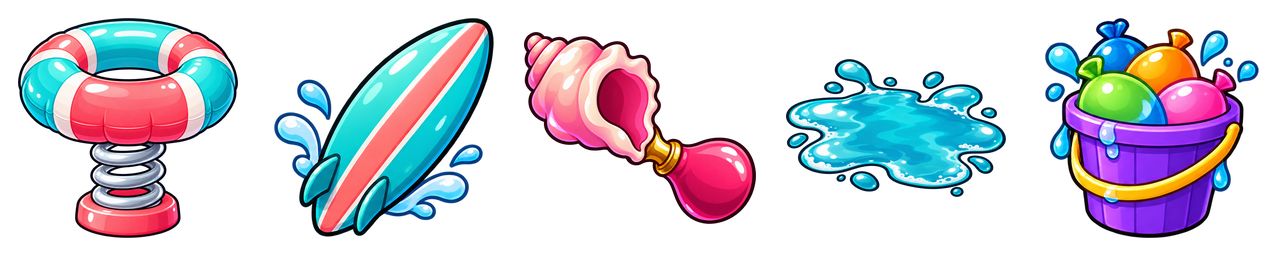
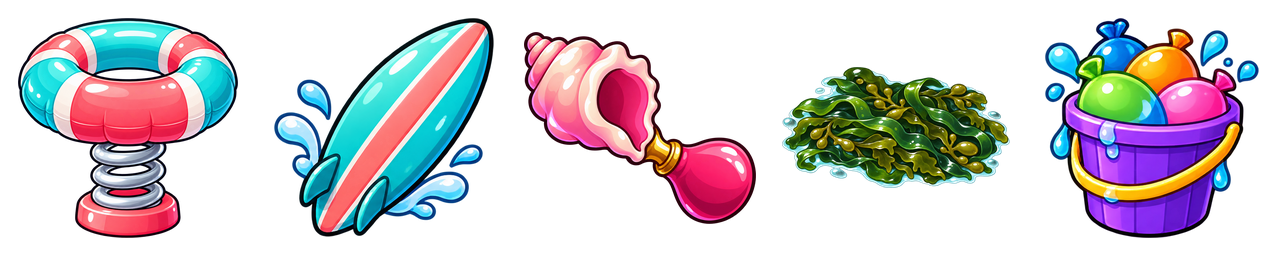
Deliver SW1 slippery Beach seaweed patch; 36 unit and 36 silent browser checks passed

Changed region(s): [[0.5938, 0.2188, 0.8125, 0.7812]]

diff --git a/americangirldollrace/tracks.js b/americangirldollrace/tracks.js
@@ -175,6 +175,7 @@ window.TRACK_THEMES = {
   beach: {
     noPowerups: ["emp", "horse"], // the surfboard stands in for both
     monster: "sandtroll",
+    powerupArtVersion: "20261023-seaweed1",
     name: "Beach", music: "assets/music/Ride the Beach Tide.mp3", dirtTop: 514, loopMode: "repeat", art: ["background", "card", "powerups", "projectile", "hurdle", "wave"],
     labels: { jump: "POOL SPRING", boost: "SURFBOARD", emp: "CONCH SHELL", oil: "SEAWEED", snowball: "WATER BALLOONS" },
     projectileLanding: "water",

diff --git a/americangirldollrace/index.html b/americangirldollrace/index.html
@@ -327,7 +327,7 @@
     </main>
     <div id="barsHint" hidden><span class="bars-arrow" aria-hidden="true">↑</span> Swipe up to hide Safari’s bars · or Share → Add to Home Screen</div>
     <script src="config.js?v=81dc0cfb"></script>
-    <script src="tracks.js?v=0a54d3c5"></script>
+    <script src="tracks.js?v=70594b77"></script>
     <script src="doll-art.js?v=05306016"></script>
     <script src="assets/audio/manifest.js?v=8761a783"></script>
     <script src="audio.js?v=baeb1965"></script>

diff --git a/americangirldollrace/tools/tracks/beach-seaweed/build.py b/americangirldollrace/tools/tracks/beach-seaweed/build.py
@@ -1,0 +1,16 @@
+"""Replace only the Beach oil cell with reviewed seaweed art."""
+from pathlib import Path
+from PIL import Image
+import importlib.util,json,hashlib
+HERE=Path(__file__).resolve().parent;GAME=HERE.parents[2]
+spec=importlib.util.spec_from_file_location('packing',GAME/'tools/tracks/build.py');p=importlib.util.module_from_spec(spec);spec.loader.exec_module(p)
+art=p.icon(p.clean(Image.open(HERE/'source.webp')),(256,256),(228,150))
+before=Image.open(HERE/'before.webp').convert('RGBA');sheet=before.copy();sheet.paste(art,(768,0))
+for n in [0,1,2,4]:
+ box=(n*256,0,(n+1)*256,256);assert before.crop(box).tobytes()==sheet.crop(box).tobytes()
+target=GAME/'assets/tracks/beach/powerups.webp';sheet.save(target,lossless=True,exact=True,method=6)
+review=Image.new('RGB',(324,512))
+for y,color in [(0,'#f6ddaa'),(256,'#18233c')]:
+ bg=Image.new('RGBA',(324,256),color);bg.alpha_composite(art);bg.alpha_composite(art.resize((68,68),Image.Resampling.LANCZOS),(256,94));review.paste(bg.convert('RGB'),(0,y))
+review.save(HERE/'review.webp',quality=90,method=6)
+(HERE/'report.json').write_text(json.dumps({'size':sheet.size,'bounds':p.bounds(art),'unchangedCells':[0,1,2,4],'sha256':hashlib.sha256(target.read_bytes()).hexdigest()},indent=2)+'\n')

diff --git a/americangirldollrace/image-requests.md b/americangirldollrace/image-requests.md
@@ -213,7 +213,7 @@ Sizes are final pixel sizes. The game scales art down but never up.
 > Beach's R8 jump cell is now a pool-ring spring, with its new POOL SPRING label.
 > The §8 riding toys are in for fourteen dolls; K3 (trial falls) and the
 > §8.1 icons R10, R12–R14 are delivered.
-> **Current queue:** §25 Beach seaweed puddle (SW1); §26 more moon boot angles (MB2); §27 fairy wings (FW1). Everything else is delivered and checked; see delivery notes below.
+> **Current queue:** §26 more moon boot angles (MB2); §27 fairy wings (FW1). Everything else is delivered and checked; see delivery notes below.
 > Delivered: Hermione/Lily/Mira action trial, all §10.2 shared sprites and both
 > §9 monsters; retained sources, calibration and in-game reviews accompany them.
 
@@ -1020,7 +1020,7 @@ the floor's own clouds are painted back over them below the surface with a
 feathered edge (game-terrain.js drawCloudSink), so the feet sink into the
 cloud under them. `puff.webp` is kept but no longer loaded.
 
-## 25. Open: Beach seaweed puddle
+## 25. Delivered: Beach seaweed puddle
 
 The Beach's oil pickup is SEAWEED, but its cell (an R-series puddle redo)
 reads as a plain blue water puddle.
@@ -1079,3 +1079,8 @@ Acceptance: on Fairy Woods with the WINGS pickup, standing, running and
 flying, the wings sit on her back for every doll, flutter softly on the
 ground and beat while she flies, and the pickup shows the resting wings.
 
+
+SW1 delivered: glossy dark-green/olive seaweed ribbons and wrack in a thin
+water film, same flat puddle angle. Cells0,1,2,4 remain decoded-RGBA identical;
+Beach cache version bumped. Native/68px and light/dark alpha reviewed.
+Source, exact built-in ImageGen prompt and report: `tools/tracks/beach-seaweed/`.
